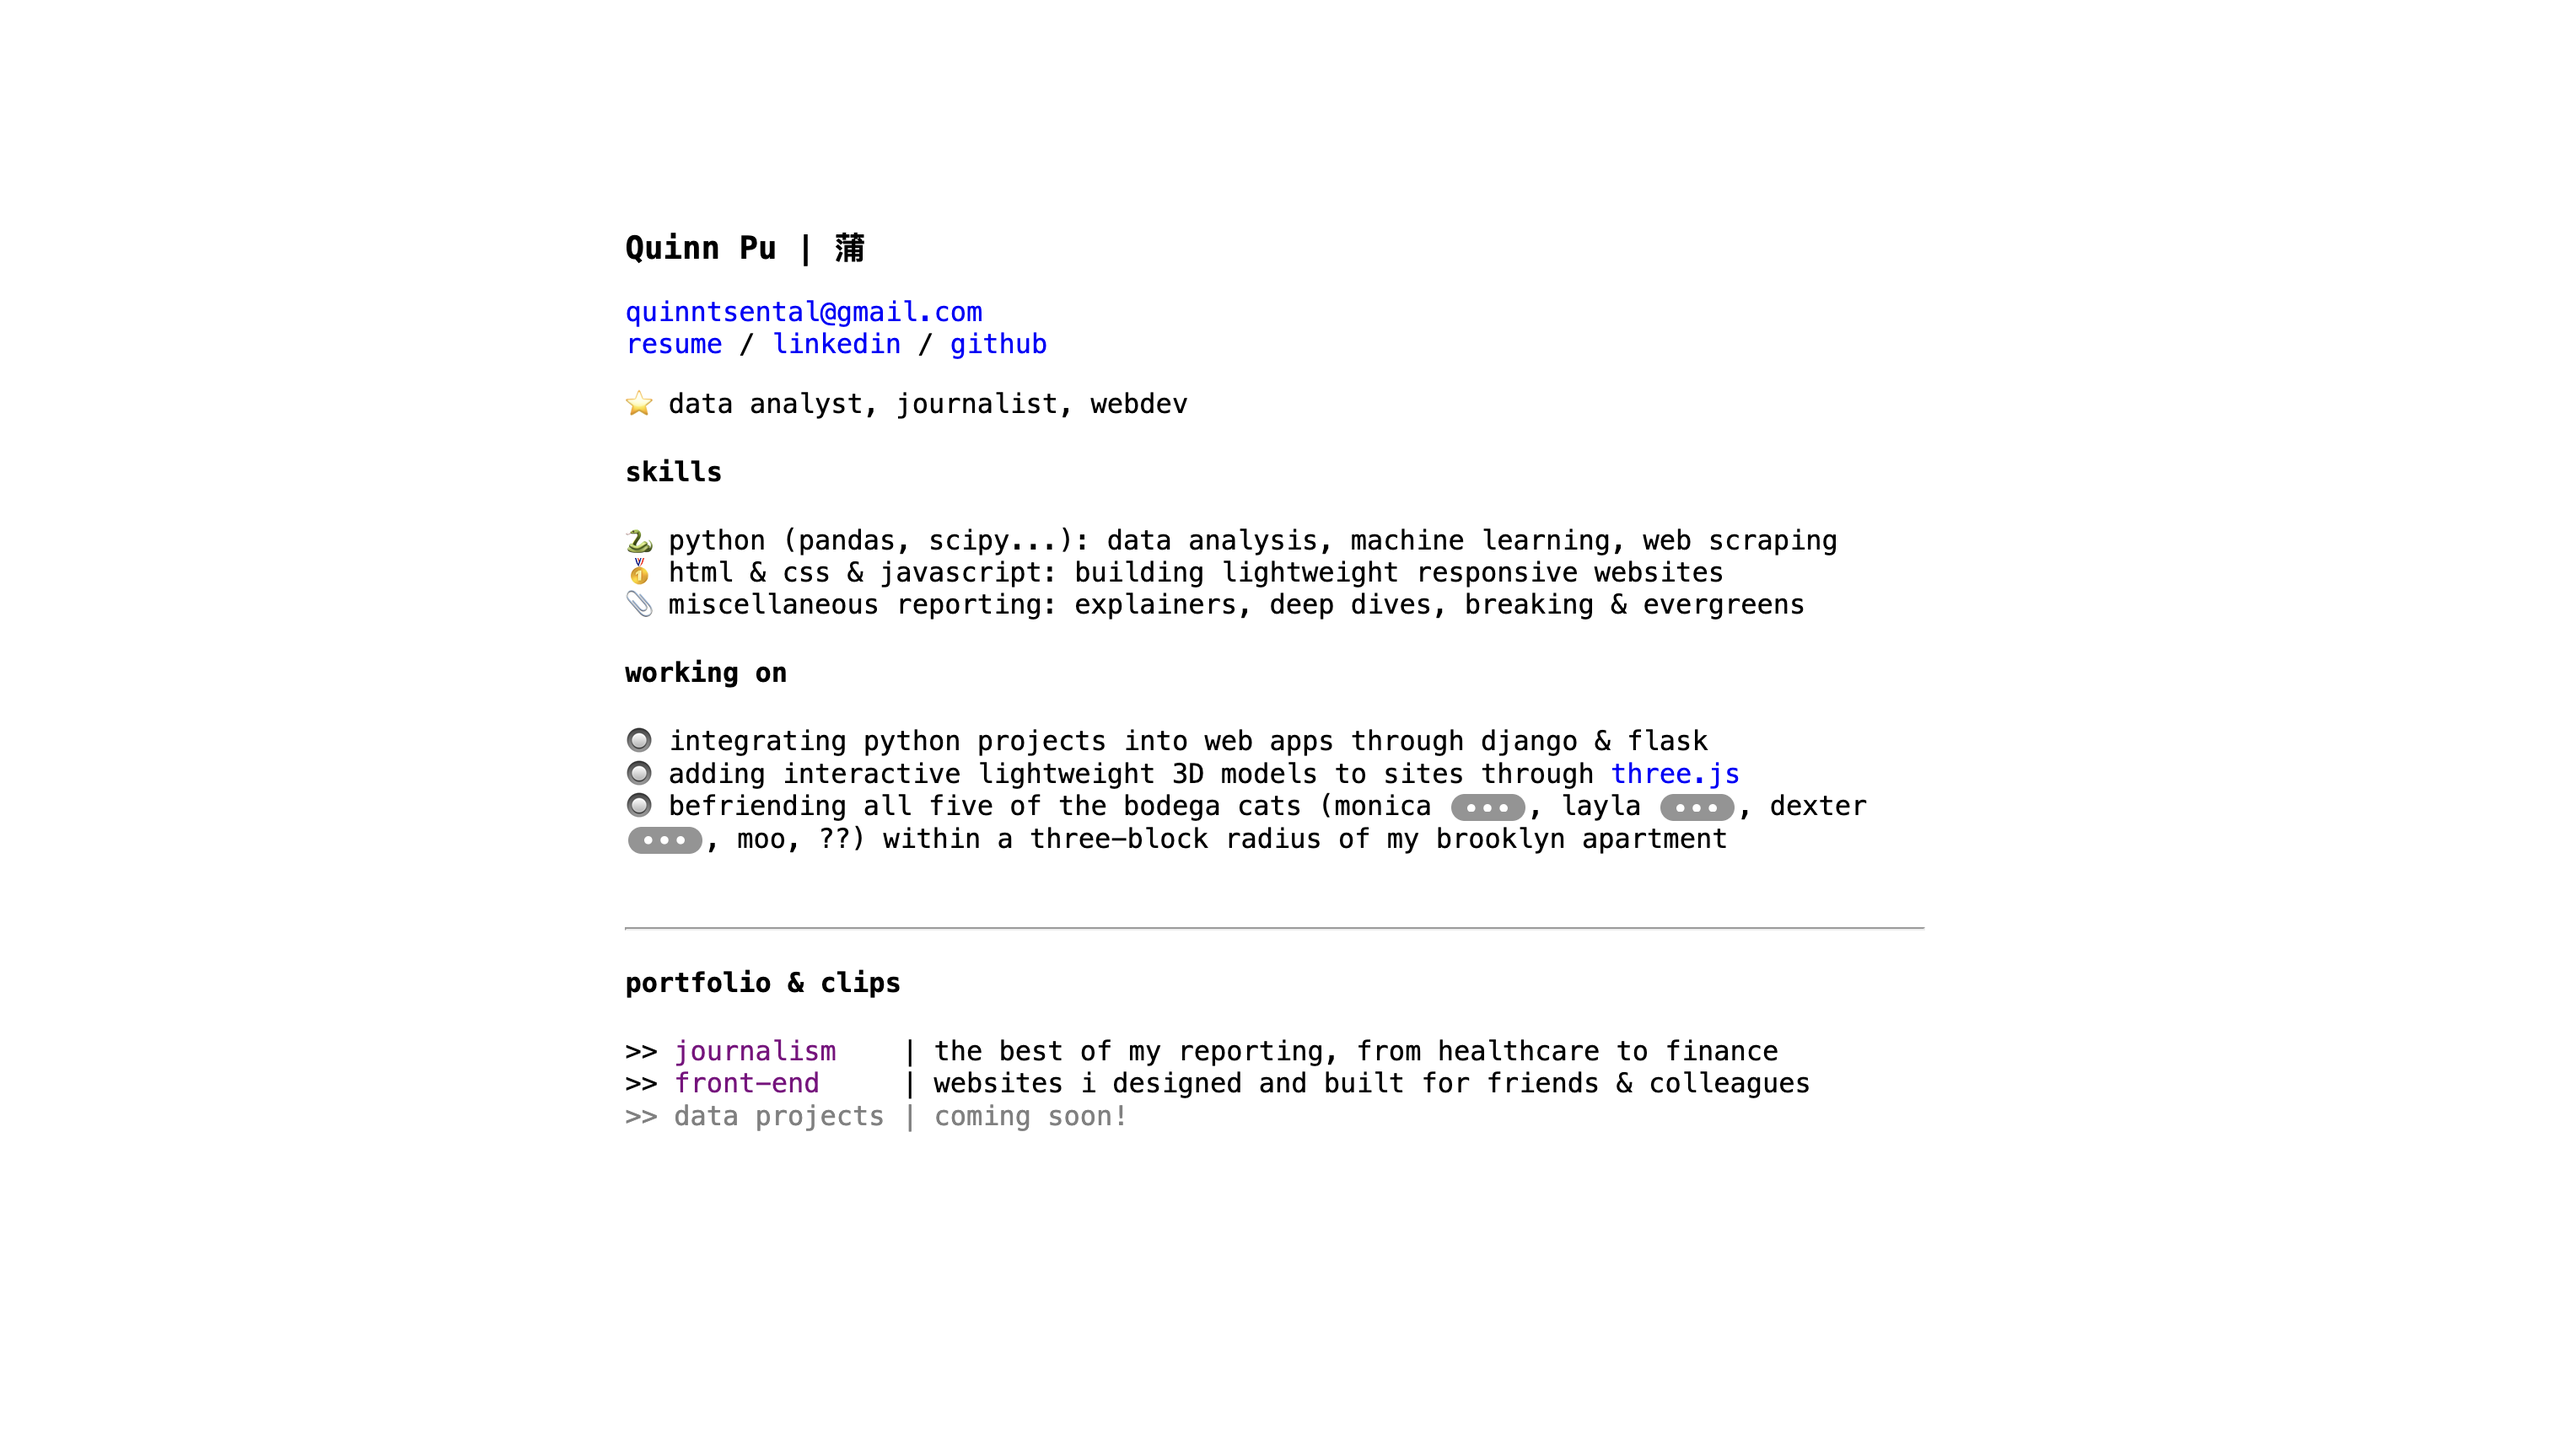
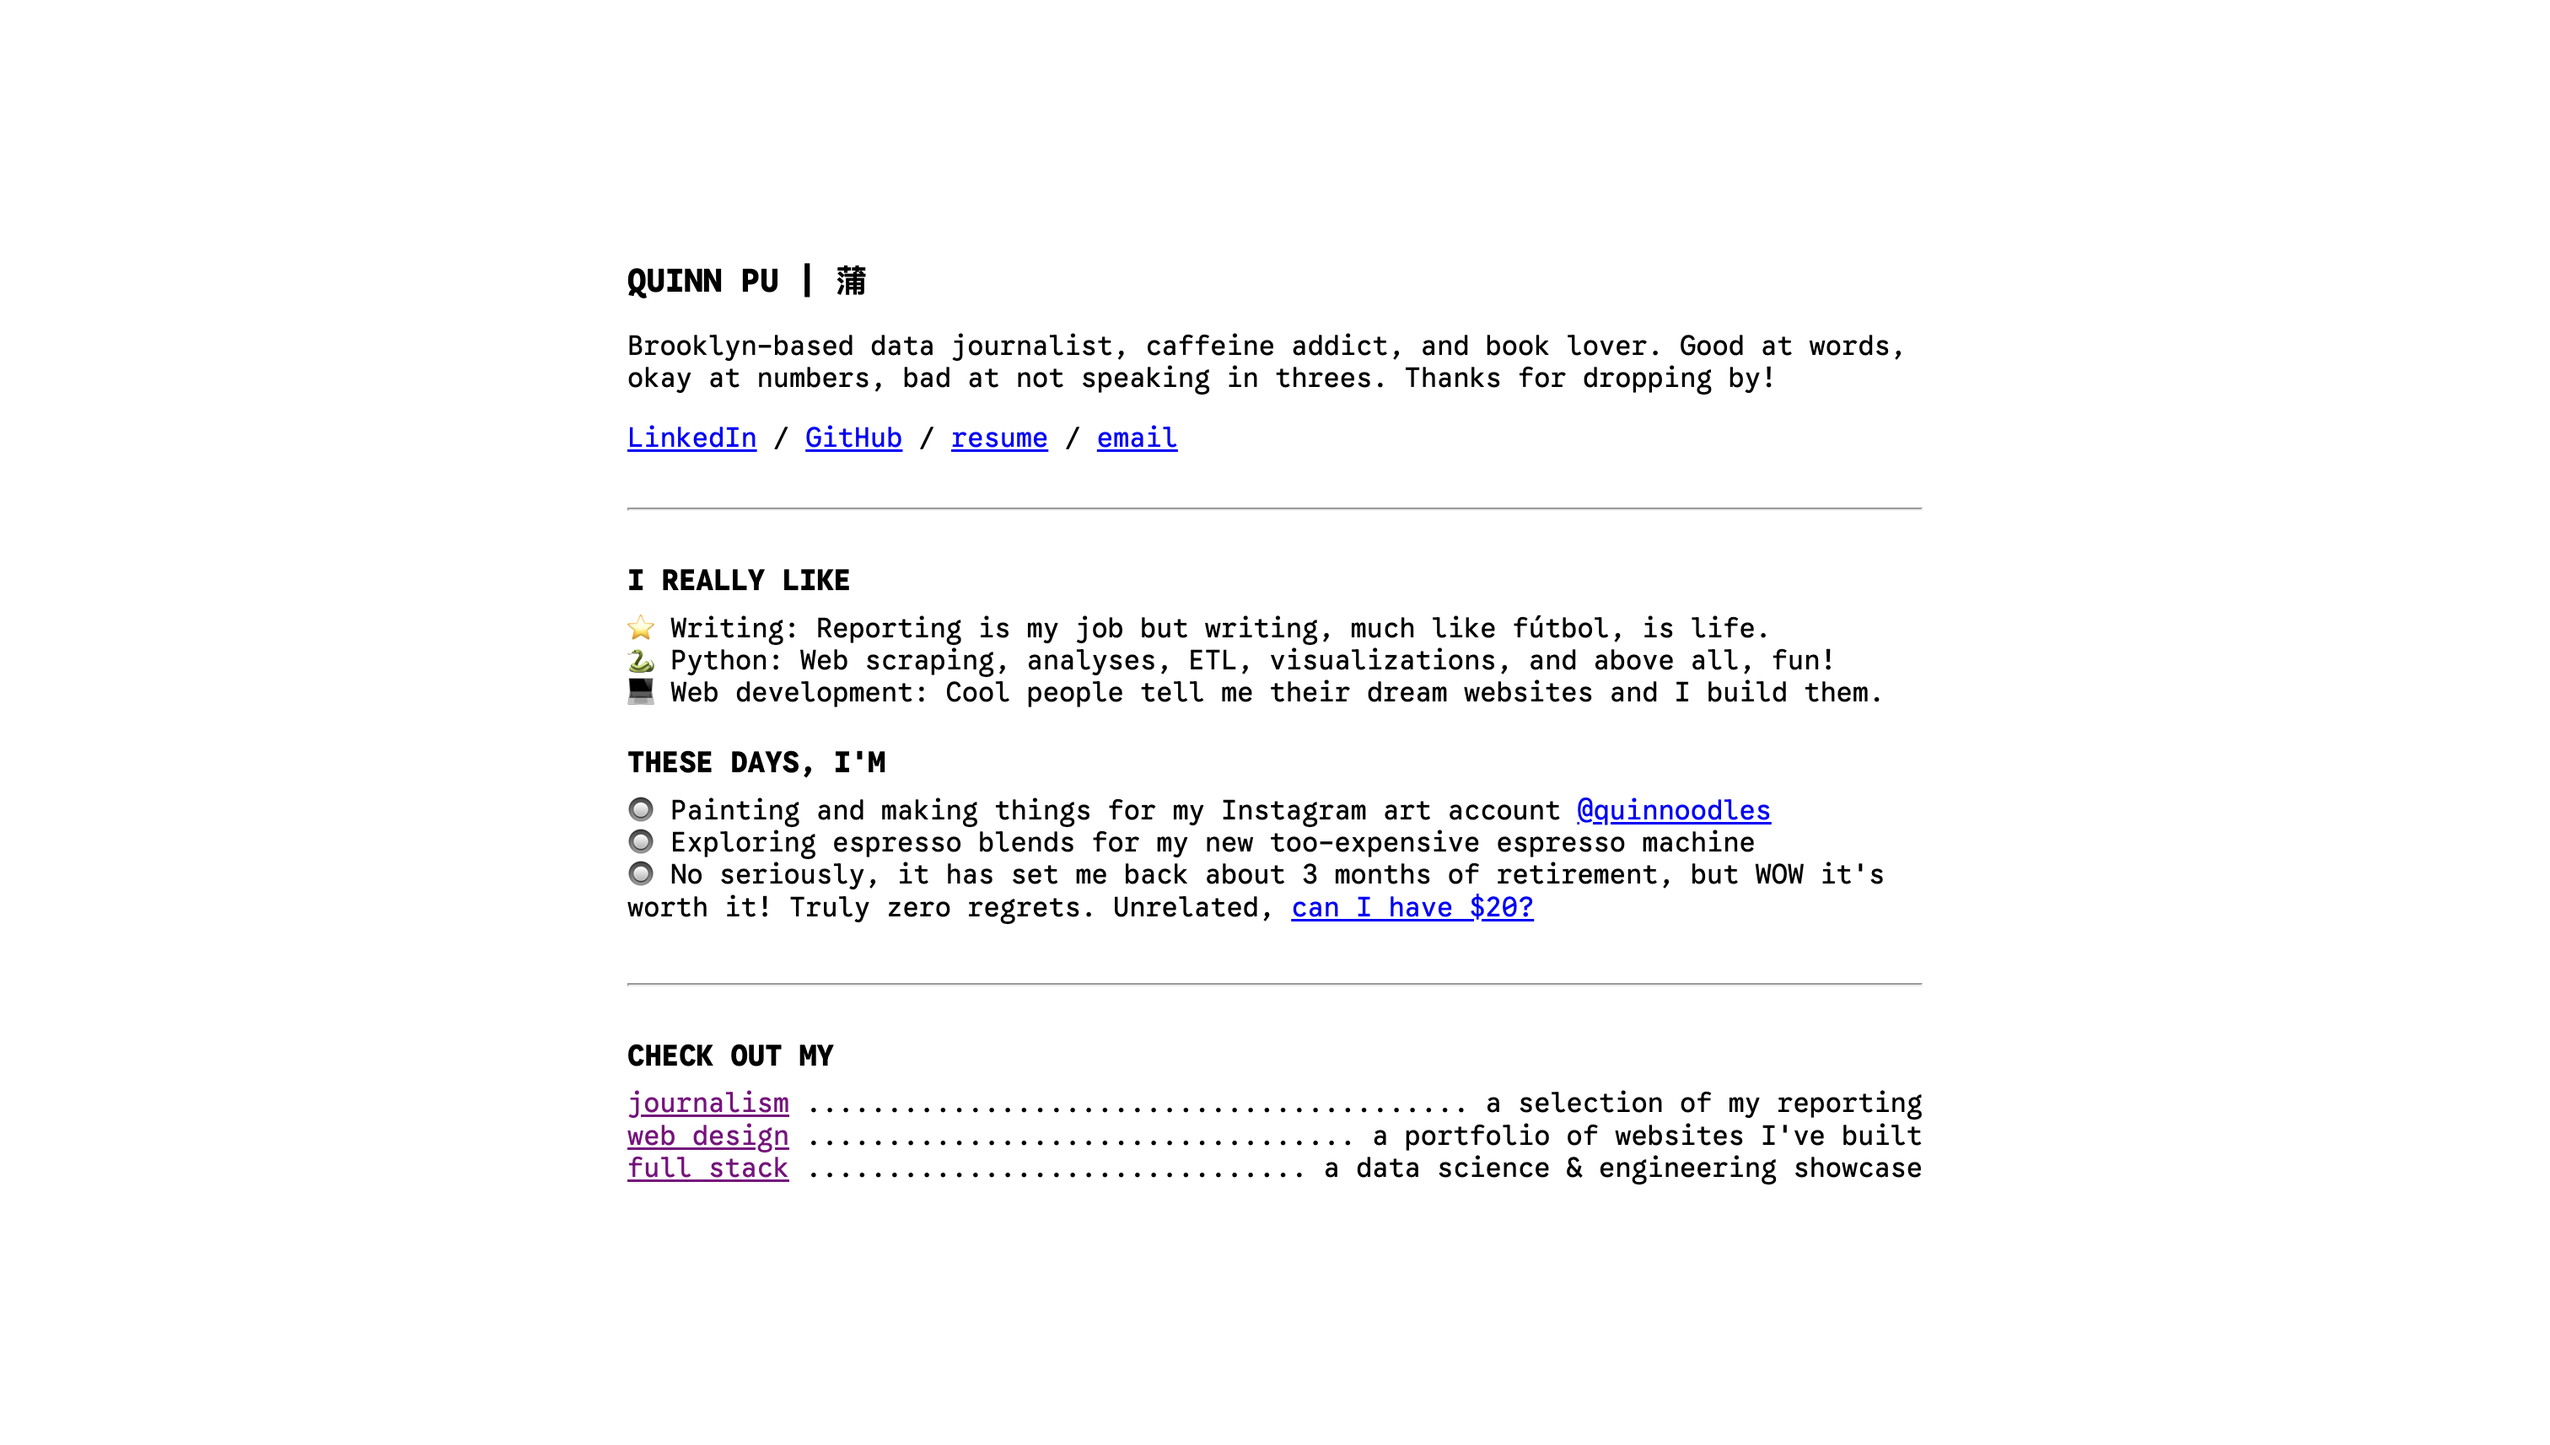
Updated links

Changed region(s): [[0.2487, 0.3715, 0.746, 0.8359], [0.2487, 0.1548, 0.746, 0.3405]]

diff --git a/sites/index.html b/sites/index.html
@@ -14,43 +14,31 @@
   </head>
   <body>
     <main>
-      <h3>websites <a href="/">&#8617;</a></h3>
-      <p></p> 
+      <h3 style="font-size: 1.5rem;margin-top:5vh;">I make websites <a href="/">&#8617;</a></h3>
+      <p>In 2022, I sat down at my dorm desk and thought, <i>I really want to make myself a website.</i> I wasn't satisfied with any of the themes or drag & drop options on the internet, though, so I googled "hwo to mmake a ewbsite" and became best friends with W3Schools. My first website was bad, but my friends were very kind and some of them even asked me to make them a website. Here are some of them!</p> 
       <hr>
 
-      <h4><a href="https://dan-toomey.com" target="_blank">&#8689; Dan Toomey</a></h4>
+      <h4 style="margin-bottom:3vh;"><a href="https://dan-toomey.com" target="_blank">&#8689; Dan Toomey</a></h4>
 
       <div class="screenshot-frame">
         <img src="../assets/dan-toomey.png"/>
       </div>
 
-      <p>When Dan Toomey (of <a href="https://www.youtube.com/@GoodWorkMB" target="_blank">Good Work</a> fame) reached out to me for a website commission, he asked for a style reminiscent of the early 2000's - a time period during which, for the most part, I was not on the internet <a href="#fn:1">1</a>.</p>
-
-      <p>Some research, Wayback Machine-surfing, and one atrocious concept draft later, I started building. The design was straightforward, but what to use as the signature old-school GeoCities clutter came as a challenge.</p>
+      <p style="color: gray">I'm not even gonna pretend like this isn't my magnum opus.</p>
 
       <hr>
 
-      <h4><a href="https://quinnmadethis.com" target="_blank">&#8689; Quinn Pu</a></h4>
+      <h4 style="margin-bottom:3vh;"><a href="https://quinnmadethis.com" target="_blank">&#8689; Quinn Pu</a></h4>
 
       <div class="screenshot-frame">
         <img src="../assets/mysite.png"/>
       </div>
 
-      <p>Woah, what's this? My website inside my website? If you click on it it takes you back to this website, which technically means you didn't go anywhere, but you should try it anyway in case Google counts it as a separate visit.</p>
-
-      <p>My main goal for my own site was a lightweight, simple showcase of my skills and other projects. Sure, it's not the fanciest thing with CSS animations and all, but you bet it's accessible!</p>
+      <p style="color: gray">Woah, what's this? My website inside my website? If you click on it it takes you back to this website, which technically means you didn't go anywhere, but you should try it anyway in case Google counts it as a separate visit.</p>
 
     </main>
 
-    <div class="footnotes">
-      <ol>
-        <li class="footnote" id="fn:1">
-          <p id="fn">And in fact was not yet born for four of those years.</p>
-          <p></p>
-        </li>
-      </ol>
-    </div>
-
+    
   <script src="https://unpkg.com/littlefoot/dist/littlefoot.js" 
           type="application/javascript">
   </script>

diff --git a/style.css b/style.css
@@ -19,6 +19,7 @@ main {
     padding: 1rem;
     font-family: "Google Sans Code", "Lucida Console", monospace;
     line-height: 1.2em;
+    margin-bottom: 5vh;
 }
 
 h3 {
